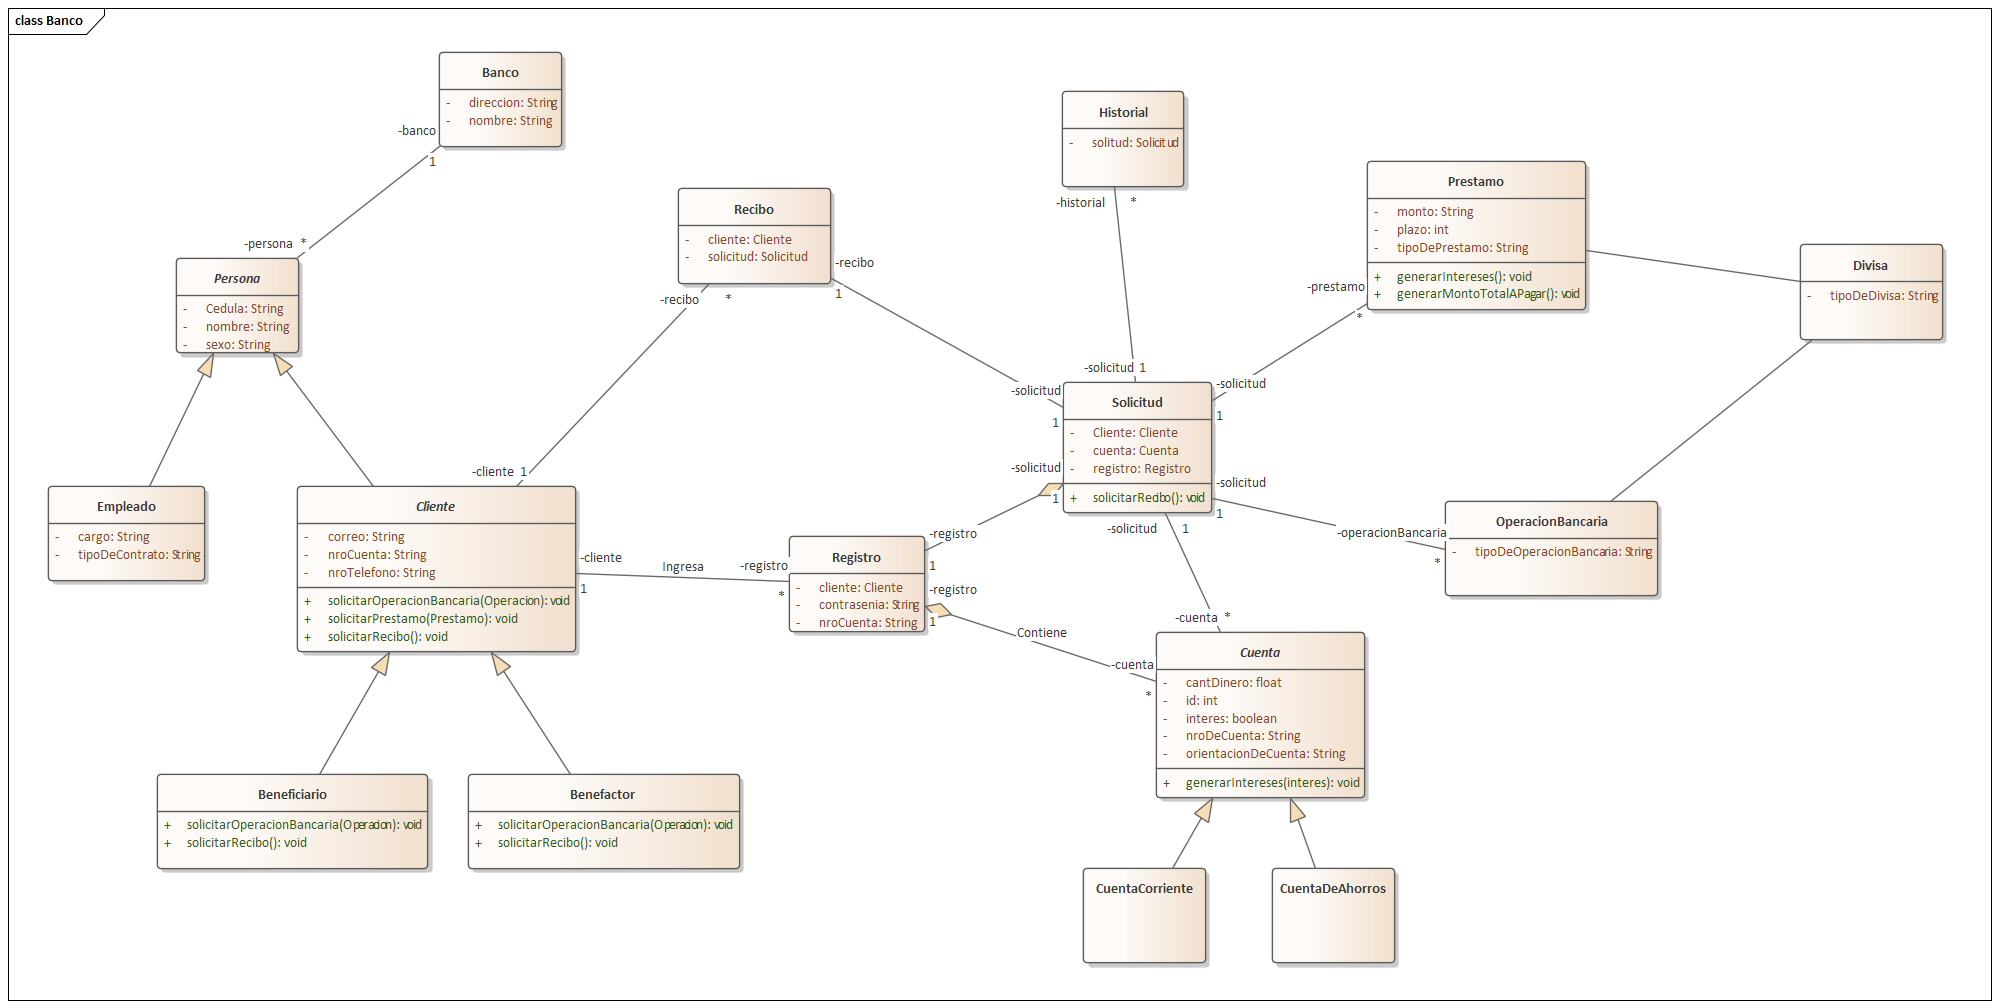
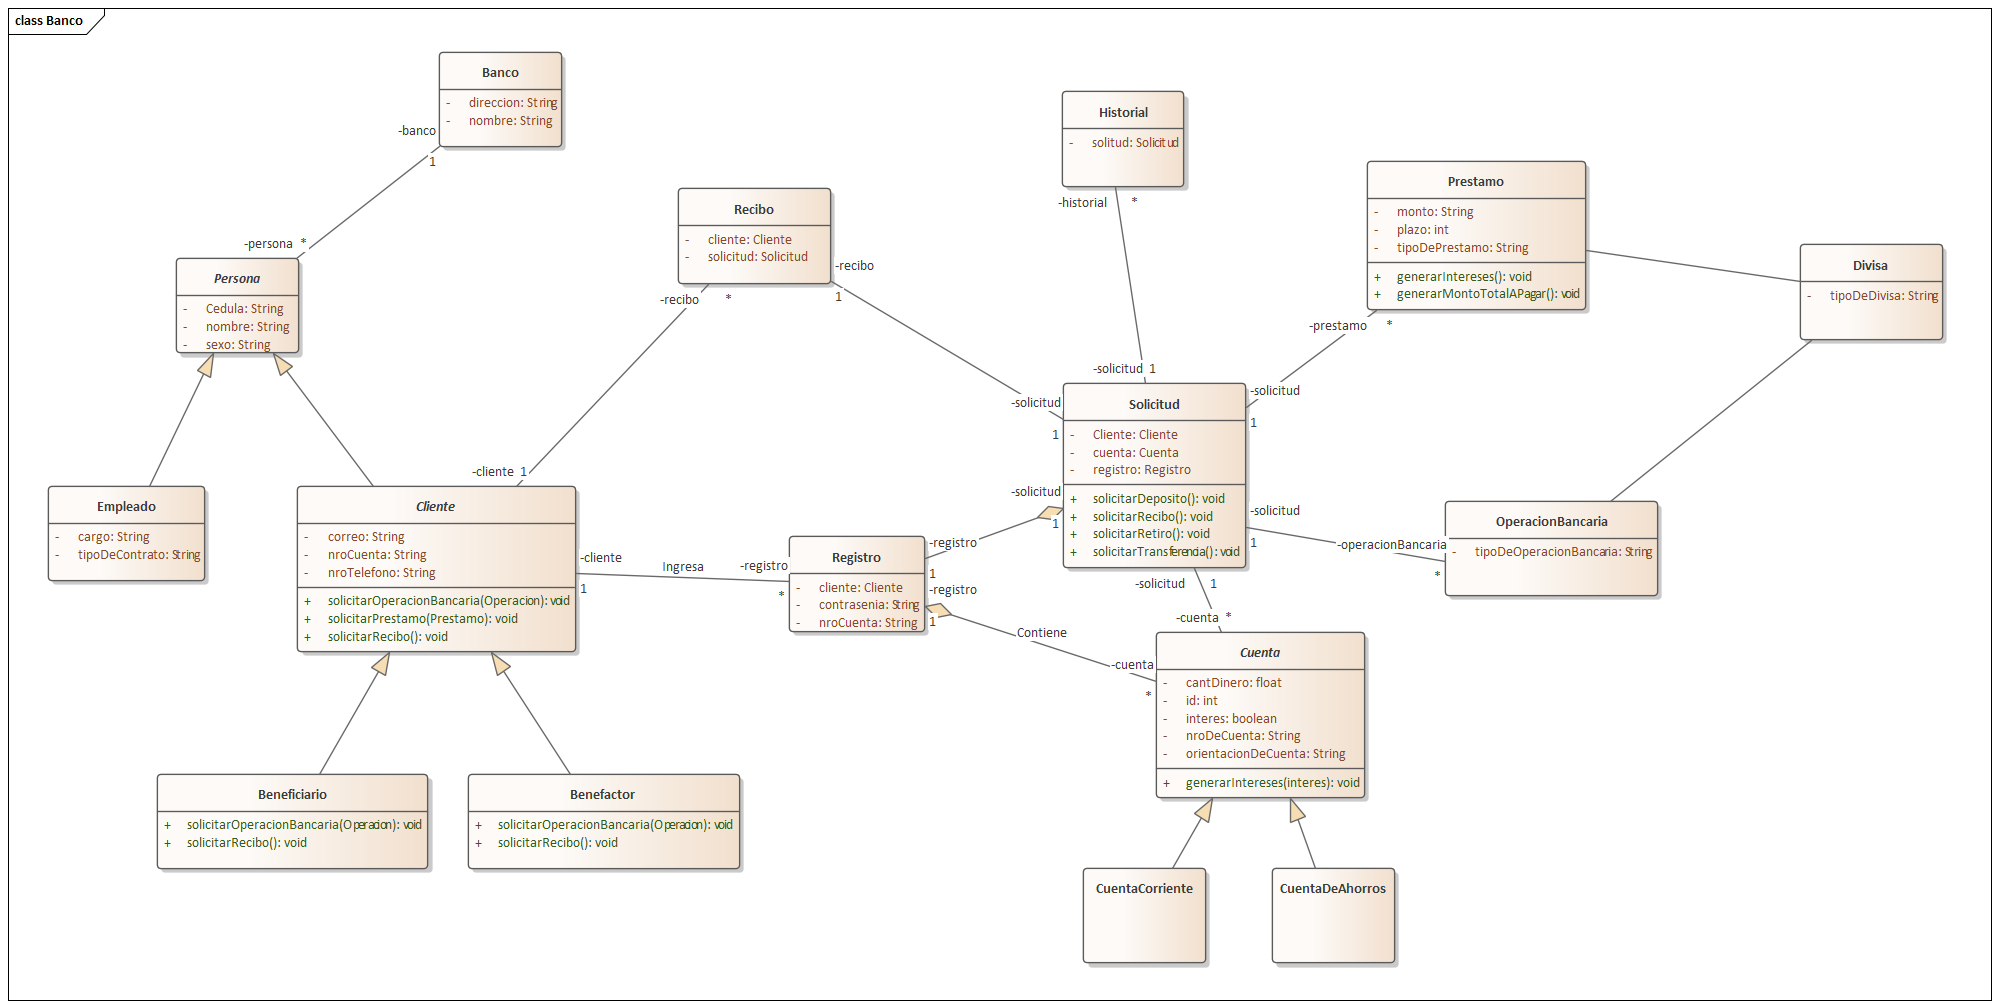
Actualizando UML

diff --git a/Codigo en Java/OperacionesBancarias/src/model/CuentaCorriente.java b/Codigo en Java/OperacionesBancarias/src/model/CuentaCorriente.java
@@ -8,6 +8,6 @@ package model;
  *
  * @author Dennys
  */
-public class CuentaCorriente {
+public class CuentaCorriente extends Cuenta{
     
 }

diff --git a/Codigo en Java/OperacionesBancarias/src/model/CuentaDeAhorros.java b/Codigo en Java/OperacionesBancarias/src/model/CuentaDeAhorros.java
@@ -8,6 +8,6 @@ package model;
  *
  * @author Dennys
  */
-public class CuentaDeAhorros {
+public class CuentaDeAhorros extends Cuenta{
     
 }

diff --git a/Codigo en Java/OperacionesBancarias/src/model/Beneficiario.java b/Codigo en Java/OperacionesBancarias/src/model/Beneficiario.java
@@ -8,6 +8,6 @@ package model;
  *
  * @author Dennys
  */
-public class Beneficiario {
+public class Beneficiario extends Cliente{
     
 }

diff --git a/Codigo en Java/OperacionesBancarias/src/model/Benefactor.java b/Codigo en Java/OperacionesBancarias/src/model/Benefactor.java
@@ -8,6 +8,6 @@ package model;
  *
  * @author Dennys
  */
-public class Benefactor {
+public class Benefactor extends Cliente{
     
 }

diff --git a/Codigo en Java/OperacionesBancarias/src/model/Cliente.java b/Codigo en Java/OperacionesBancarias/src/model/Cliente.java
@@ -8,6 +8,6 @@ package model;
  *
  * @author Dennys
  */
-public class Cliente {
+public abstract class Cliente {
     
 }

diff --git a/Codigo en Java/OperacionesBancarias/src/model/Cuenta.java b/Codigo en Java/OperacionesBancarias/src/model/Cuenta.java
@@ -8,6 +8,6 @@ package model;
  *
  * @author Dennys
  */
-public class Cuenta {
+public abstract class Cuenta {
     
 }
